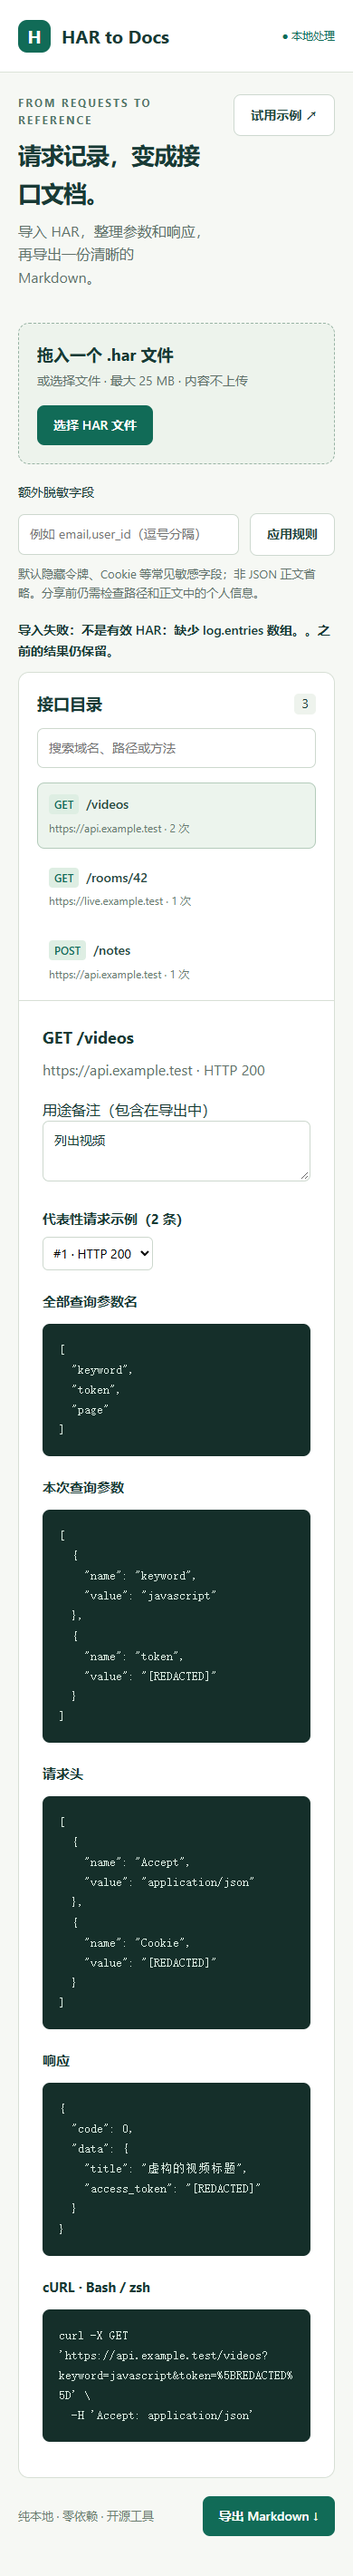
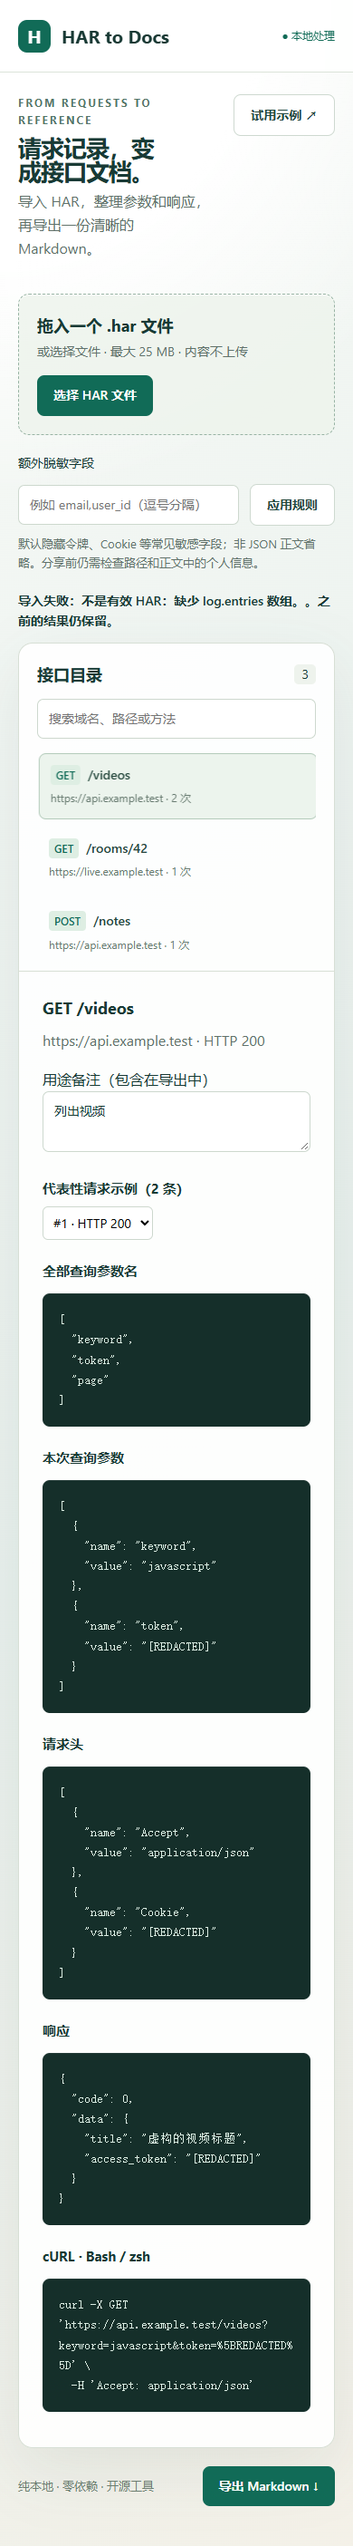
Release v0.3.0 polish performance and docs

diff --git a/dist/style.css b/dist/style.css
@@ -1,7 +1,8 @@
 :root {
-  font-family: Inter, "Segoe UI", "Microsoft YaHei", sans-serif;
+  font-family:
+    Aptos, "Segoe UI Variable", "Segoe UI", "Microsoft YaHei", sans-serif;
   color: #193a35;
-  background: #f6f8f4;
+  background: #eef3ef;
   font-size: 16px;
   line-height: 1.6;
   font-synthesis: none;
@@ -11,6 +12,9 @@
 }
 body {
   margin: 0;
+  background:
+    radial-gradient(circle at top left, #ffffff 0 18rem, transparent 34rem),
+    linear-gradient(135deg, #f8faf7, #e8f0ec 55%, #f4f1e8);
 }
 header {
   height: 80px;
@@ -19,7 +23,8 @@ header {
   display: flex;
   align-items: center;
   justify-content: space-between;
-  background: #fff;
+  background: rgba(255, 255, 255, 0.86);
+  backdrop-filter: blur(18px);
 }
 .brand {
   color: inherit;
@@ -67,9 +72,11 @@ main {
   margin: 0;
 }
 h1 {
-  font-size: 32px;
-  letter-spacing: -1px;
+  font-size: clamp(32px, 5vw, 54px);
+  letter-spacing: -0.04em;
+  line-height: 0.98;
   margin: 8px 0;
+  text-wrap: balance;
 }
 p {
   color: #61726b;
@@ -88,10 +95,20 @@ button,
   cursor: pointer;
   display: inline-block;
   text-decoration: none;
+  transition:
+    transform 180ms ease,
+    background 180ms ease,
+    border-color 180ms ease,
+    filter 180ms ease;
 }
 button:hover,
 .button:hover {
   filter: brightness(0.93);
+  transform: translateY(-1px);
+}
+button:active,
+.button:active {
+  transform: translateY(0);
 }
 button:disabled {
   opacity: 0.4;
@@ -117,10 +134,17 @@ textarea:focus-visible,
   display: flex;
   justify-content: space-between;
   align-items: center;
-  background: #edf3ec;
+  background: rgba(237, 243, 236, 0.86);
+  box-shadow: inset 0 1px 0 #ffffffb3;
+  transition:
+    background 180ms ease,
+    border-color 180ms ease,
+    transform 180ms ease;
 }
 .import.drag {
   background: #d5e9dc;
+  border-color: #116b57;
+  transform: translateY(-1px);
 }
 .import strong {
   font-size: 18px;
@@ -168,10 +192,11 @@ textarea {
   display: grid;
   grid-template-columns: 310px minmax(0, 1fr);
   border: 1px solid #d7dfd5;
-  background: white;
-  border-radius: 12px;
+  background: rgba(255, 255, 255, 0.9);
+  border-radius: 16px;
   overflow: hidden;
   min-height: 440px;
+  box-shadow: 0 24px 70px #24483e17;
 }
 aside {
   border-right: 1px solid #d7dfd5;
@@ -210,6 +235,14 @@ h2 {
   margin-bottom: 8px;
   padding: 12px;
   overflow-wrap: anywhere;
+  transition:
+    background 160ms ease,
+    border-color 160ms ease,
+    transform 160ms ease;
+}
+.endpoint:hover {
+  background: #f4f8f4;
+  transform: translateX(2px);
 }
 .endpoint.selected {
   background: #ecf4ed;
@@ -253,6 +286,7 @@ pre {
   line-height: 1.7;
   white-space: pre-wrap;
   overflow-wrap: anywhere;
+  box-shadow: inset 0 1px 0 #ffffff10;
 }
 select {
   font: inherit;

diff --git a/README.md b/README.md
@@ -2,51 +2,54 @@
 
 [![CI](https://github.com/AK1116q/har-to-docs/actions/workflows/ci.yml/badge.svg)](https://github.com/AK1116q/har-to-docs/actions/workflows/ci.yml)
 
-**把浏览器请求记录，整理成可以阅读和分享的 API 文档。**
+**Turn browser network captures into readable, redacted API documentation.**
 
-Local-first HAR explorer and Markdown API reference generator. No account, no backend, no runtime dependencies.
+HAR to Docs is a local-first HAR explorer and Markdown API reference generator. It has no account system, no backend, and no runtime dependencies.
 
-![接口整理器演示](docs/screenshot.png)
+![HAR to Docs demo](docs/screenshot.png)
 
-## 为什么做这个
+## Why It Exists
 
-调试网页时，Network 面板里的请求很多，手动整理地址、参数和响应很耗时。HAR to Docs 将同一来源、方法和路径的请求归组，保留参数与响应示例，并生成 Markdown 文档。
+Browser DevTools are great for debugging, but Network panels become noisy fast. This tool groups requests by origin, HTTP method, and path, then keeps useful request and response examples so you can export a clean Markdown reference.
 
-它整理你导入的请求记录，不会主动抓取网站，也不会自动调用或验证这些接口。
+It only organizes the HAR file you import. It does not crawl websites, call private APIs, or validate whether an endpoint is official or stable.
 
-## 开始使用
+## Getting Started
 
-需要 Node.js 22 或更新版本；无需 `npm install`。
+Requires Node.js 22 or newer. No `npm install` step is needed.
 
 ```bash
 npm start
 ```
 
-打开终端打印的本地地址（默认 `http://127.0.0.1:4173`），点击 **试用示例**，或拖入 `.har` 文件。
+Open the local URL printed by the terminal, usually `http://127.0.0.1:4173`. Click **Try sample / 试用示例**, or drop in a `.har` file.
 
-如端口被占用，在 PowerShell 中运行：
+If the default port is busy, run this in PowerShell:
 
 ```powershell
 $env:PORT = '42831'
 npm start
 ```
 
-通过本地 HTTP 服务运行；直接双击 HTML 的 `file://` 模式不受支持。
+The app is served through a local HTTP server. Opening the HTML file directly through `file://` is not supported.
 
-## 如何获得 HAR
+## Exporting a HAR File
 
-在浏览器开发者工具的 Network 面板中记录需要的操作，再使用面板的 HAR 导出功能。不同浏览器的菜单名称会有所不同。只导出必要的请求，导入后检查脱敏效果；如果导出文件没有响应正文，本工具会明确显示“响应未包含”。
+Open your browser DevTools, record the workflow you want to document in the Network tab, then export the capture as HAR. Browser menus vary, but Chrome and Edge both support saving Network activity as a HAR file.
 
-## 功能
+Export only the requests you need. After importing, review the redaction result before sharing the generated Markdown. If the HAR does not include response bodies, this tool will show that clearly in the output.
 
-- 按 **来源 + 请求方法 + 路径** 归组，保留请求次数、状态码和查询参数名。
-- 查看最多 5 条代表性请求示例、请求头、查询参数、请求体及 JSON 响应，并优先覆盖不同 HTTP 状态。
-- 按域名、路径和方法搜索；为每个接口添加用途备注。
-- 默认隐藏常见令牌、密码、Cookie、授权和签名字段；支持额外字段名。
-- 导出 Markdown 文档和 Bash/zsh 格式的 cURL 示例。
-- 单文件上限 25 MB，最多 20,000 条请求。
+## Features
 
-## 命令行
+- Groups by origin, HTTP method, and path.
+- Tracks request count, HTTP statuses, and query parameter names.
+- Keeps up to five representative examples per endpoint and prefers distinct HTTP statuses.
+- Shows headers, query parameters, request bodies, JSON responses, and Bash/zsh cURL examples.
+- Lets you add notes for each endpoint; notes are included in Markdown export.
+- Redacts common tokens, passwords, cookies, authorization values, signatures, and custom field names.
+- Handles files up to 25 MB and captures with up to 20,000 requests.
+
+## CLI
 
 ```bash
 node bin/cli.mjs dist/sample.har
@@ -54,40 +57,42 @@ node bin/cli.mjs dist/sample.har -o api.md
 node bin/cli.mjs dist/sample.har --redact email,user_id -o redacted-api.md
 ```
 
-输出文件已存在时会报错，以免覆盖已有文档。省略 `-o` 时写到标准输出。额外字段按名称、不区分大小写匹配，不支持路径表达式。
+When `-o` is used, the command refuses to overwrite an existing file. Without `-o`, it writes Markdown to stdout. Extra redaction fields are matched by name, case-insensitively; path expressions are not supported.
 
-## 脱敏边界
+## Redaction Boundaries
 
-查询参数、结构化请求体和 JSON 响应会递归处理常见敏感字段；URL 中的账号、密码和片段会移除。请求头只保留 Accept、Content-Type、Accept-Language 的非敏感值，其余值隐藏。非 JSON 自由文本正文、Base64 响应和文件内容省略。
+Query parameters, structured request bodies, and JSON responses are recursively redacted by field name. URL usernames, passwords, and fragments are removed. Request headers only keep non-sensitive values for `Accept`, `Content-Type`, and `Accept-Language`; other header values are hidden. Plain text bodies, Base64 responses, and file contents are omitted.
 
-字段名脱敏不是完整的隐私识别：路径中的账号、自然语言正文中的个人信息、未知字段、嵌在字符串里的 JSON 等仍可能保留。分享前必须人工检查；用途备注也是导出内容。页面刷新会清除导入数据和备注，没有云端或浏览器持久化。
+Field-name redaction is not full privacy detection. IDs in paths, personal information in natural-language text, unknown fields, and JSON embedded inside strings may remain. Review exports before sharing them.
 
-## 当前限制
+## Current Limits
 
-- 这是一份观察到的请求样本，不是官方 API 合约；字段名列表不推断必填、类型约束或授权范围。
-- 不会将 `/users/1` 与 `/users/2` 推断成一个路径模板。
-- 每组最多保留 5 个代表性示例，后续请求继续贡献次数、状态码和参数名。
-- cURL 是整理后的示例；脱敏后通常不能直接通过认证。multipart 文件上传、缺失正文和平台签名不能据此重放。
-- 非 HTTP(S) 请求跳过；不解析 WebSocket 帧、Protobuf、gRPC 或 Base64 正文。
-- JSON 数字遵循 JavaScript 精度规则；超大整数 ID 应在原始数据中使用字符串。
+- The output is documentation from observed traffic, not an official API contract.
+- It does not infer required fields, auth scopes, or JSON Schema.
+- It does not turn `/users/1` and `/users/2` into a route template.
+- cURL examples are redacted and usually cannot authenticate as-is.
+- Multipart uploads, missing response bodies, and platform signatures cannot be replayed from the generated examples.
+- Non-HTTP(S) requests are skipped.
+- WebSocket frames, Protobuf, gRPC, and Base64 bodies are not parsed.
+- Very large JSON numbers follow JavaScript precision rules; use strings for large integer IDs in source data.
 
-## 开发与验证
+## Development
 
 ```bash
 npm test
 ```
 
-核心由 `dist/core.mjs` 提供，浏览器和 CLI 使用同一实现。测试覆盖归组、跨层脱敏、异常输入、原型字段、Markdown 围栏与 cURL 引号。
+The browser app and CLI share `dist/core.mjs`. Tests cover grouping, redaction, malformed HAR members, representative examples, prototype keys, Markdown fences, and cURL quoting.
 
-`dist/` 是手写且跟踪的静态源码，可独立部署到静态托管服务；当前交付未发布线上站点。可选 WebMCP 接口仅在浏览器支持时注册，不影响普通使用。
+`dist/` is hand-written static source and can be hosted as a static site. This repository does not publish a hosted production site.
 
-查看 [验证记录](docs/VALIDATION.md) 与 [贡献说明](CONTRIBUTING.md)。
+See [validation notes](docs/VALIDATION.md) and [contributing notes](CONTRIBUTING.md).
 
-## 后续方向
+## Roadmap
 
-- 导出 OpenAPI 初稿，并明确区分样本推断和人工确认。
-- 导出 OpenAPI 初稿前的人工校对清单。
-- 对两次请求记录生成接口变更摘要。
+- Export an OpenAPI draft with clear sample-derived warnings.
+- Add a manual review checklist before exporting OpenAPI.
+- Compare two HAR captures and summarize endpoint changes.
 
 ## License
 

diff --git a/docs/VALIDATION.md b/docs/VALIDATION.md
@@ -1,14 +1,14 @@
-# v0.2.0 验证记录
+# v0.3.0 验证记录
 
 日期：2026-09-12。环境：Windows、Node.js 24.11.0；浏览器测试通过 Playwright 驱动本机浏览器。
 
 - 9 项 Node 核心测试通过：接口归组、敏感字段脱敏、自定义规则、异常 HAR、原型键、正文省略、代表性状态码样本、异常数组兼容、cURL 格式。
-- Chrome 浏览器通过：示例导入、接口搜索与选择、用途备注、Markdown 下载、无效文件导入后保留之前结果。
+- Chrome 浏览器通过：示例导入、接口搜索与选择、用途备注、Markdown 下载、无效文件导入后保留之前结果；截图已覆盖新版界面。
 - 1440px 桌面与 390px 窄屏检查通过，没有页面水平溢出。
 - CLI 的正常输出、错误输入和错误参数验证通过。
 - 页面没有捕获到未处理的 JavaScript 运行错误。
 
-未验收：完整隐私识别（功能不提供）、外部接口可调用性（功能不提供）、原生 WebMCP 集成及线上托管。
+未验收：完整隐私识别（功能不提供）、外部接口可调用性（功能不提供）、原生 WebMCP 集成、超大文件性能基准及线上托管。
 
 ## 本地复现核心测试
 

diff --git a/CHANGELOG.md b/CHANGELOG.md
@@ -1,5 +1,11 @@
 # Changelog
 
+## 0.3.0 — 2026-09-12
+
+- Reworked README in English for a wider GitHub audience.
+- Improved large result rendering with cached search keys, batched DOM insertion, debounced filtering, and truncated in-page previews.
+- Refined the interface with a stronger tool layout, calmer surfaces, and clearer interaction states.
+
 ## 0.2.0 — 2026-09-12
 
 - 请求示例改为最多 5 条代表性样本，并优先覆盖不同 HTTP 状态，减少漏看错误响应。
